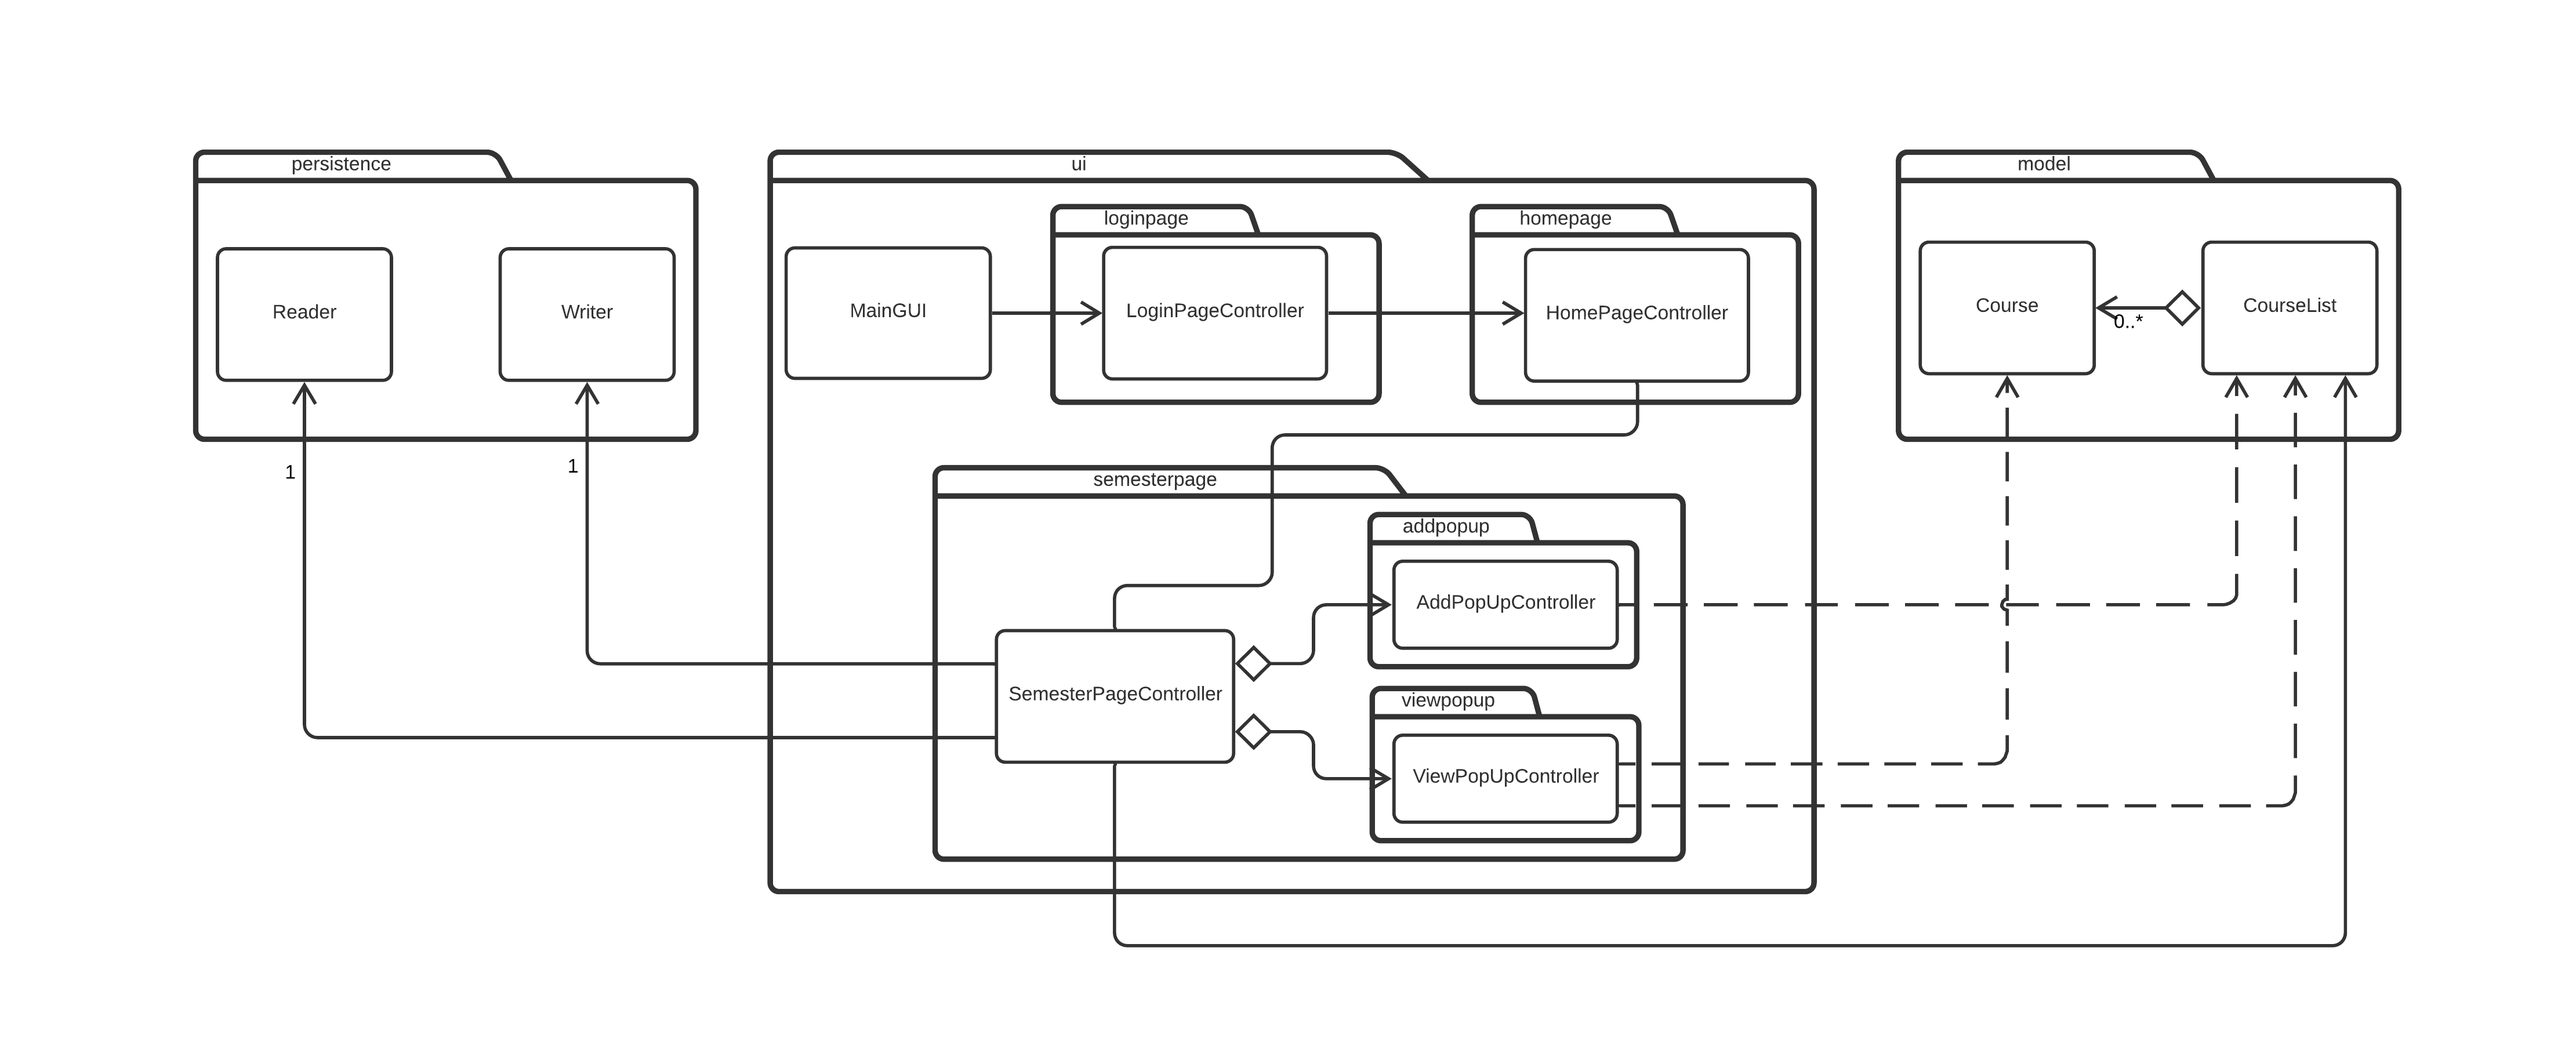
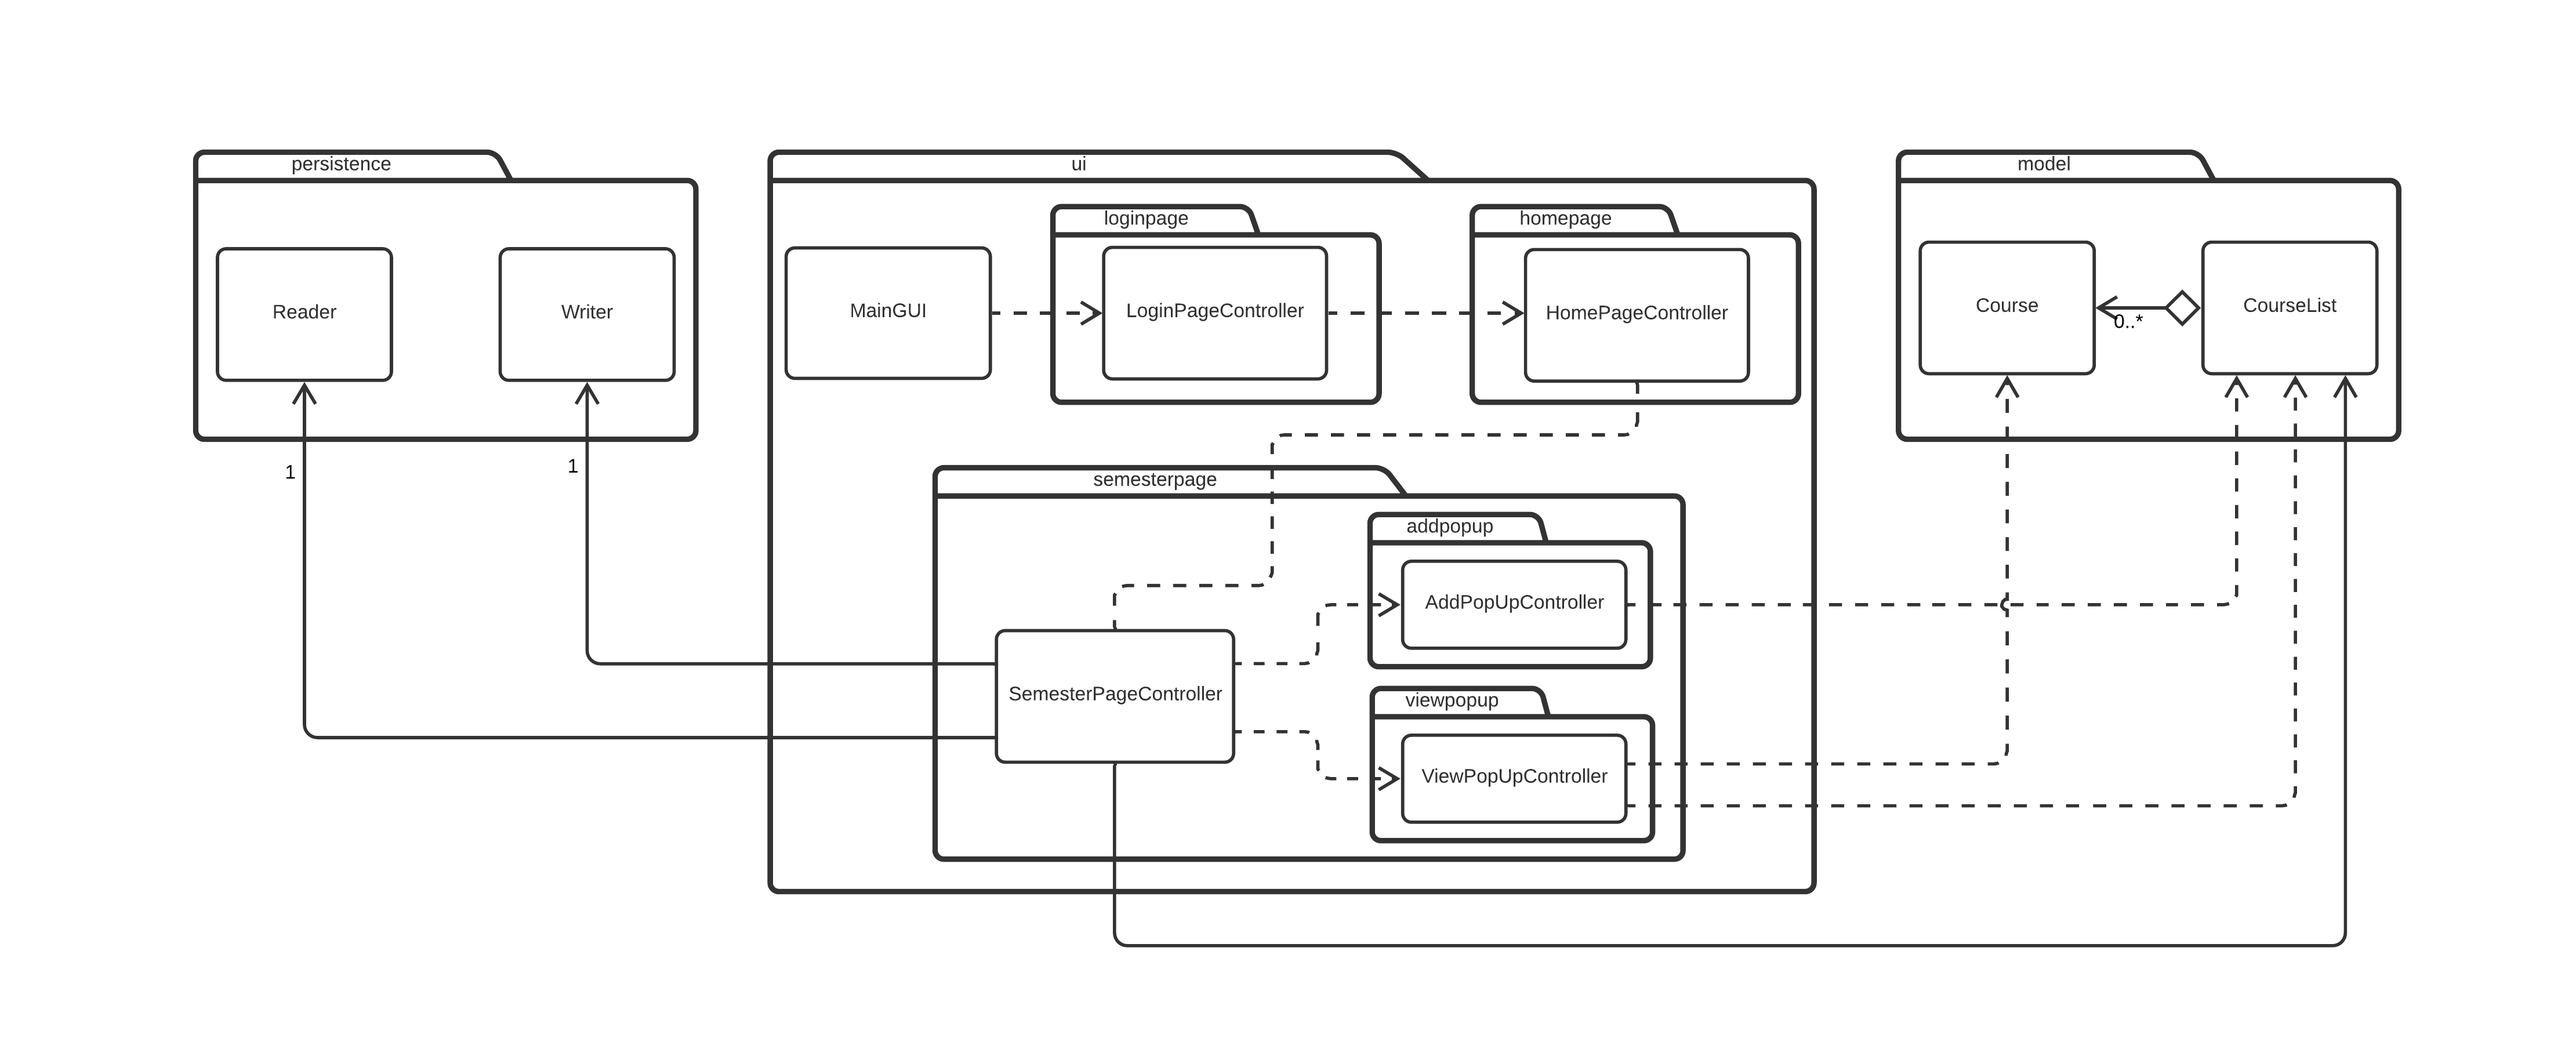
Phase 4 final commit

diff --git a/src/main/model/CourseList.java b/src/main/model/CourseList.java
@@ -14,9 +14,7 @@ public class CourseList {
         courseList = new ArrayList<>();
     }
 
-    /* REQUIRES: cc, cl and ct has a non-zero length
-     *           cn and cc are > 0
-     * MODIFIES: this
+    /* MODIFIES: this
      * EFFECTS: adds a new course to course list
      */
     public void addCourse(String cc, int cn, int cred, String cl, String ct) throws NumberFormatException,
@@ -36,8 +34,7 @@ public class CourseList {
 
     // EFFECTS: returns index of the course to remove if found else returns -1
     public int removeCourse(String cc, int cn) {
-        int i;
-        for (i = 0; i < courseList.size(); i++) {
+        for (int i = 0; i < courseList.size(); i++) {
             if ((cc.equals(courseList.get(i).getCourseCode())) && (cn == courseList.get(i).getCourseNumber())) {
                 return i;
             }
@@ -47,8 +44,7 @@ public class CourseList {
 
     // EFFECTS: returns index of the course to view if found else returns -1
     public int viewCourse(String cc, int cn) {
-        int i;
-        for (i = 0; i < courseList.size(); i++) {
+        for (int i = 0; i < courseList.size(); i++) {
             if ((cc.equals(courseList.get(i).getCourseCode())) && (cn == courseList.get(i).getCourseNumber())) {
                 return i;
             }

diff --git a/src/main/model/Course.java b/src/main/model/Course.java
@@ -12,9 +12,7 @@ public class Course {
     private String courseLocation;
     private String courseTiming;
 
-    /* REQUIRES: courseCode, courseLocation and courseTiming has a non-zero length
-    *            courseNumber and courseCredits are > 0
-    * MODIFIES: this
+    /* MODIFIES: this
     * EFFECTS: instantiates courseCode, courseLocation, courseTiming, courseNumber and courseCredits
     */
     public Course(String courseCode, int courseNumber, int courseCredits, String courseLocation, String courseTiming)

diff --git a/src/main/model/exceptions/CourseCreditExceedMaximumException.java b/src/main/model/exceptions/CourseCreditExceedMaximumException.java
@@ -1,5 +1,6 @@
 package model.exceptions;
 
+// Checked exception for course credit input
 public class CourseCreditExceedMaximumException extends Exception {
 
 }

diff --git a/src/main/model/exceptions/CourseNumberExceedMaximumException.java b/src/main/model/exceptions/CourseNumberExceedMaximumException.java
@@ -1,5 +1,6 @@
 package model.exceptions;
 
+// Checked exception for course number input
 public class CourseNumberExceedMaximumException extends Exception {
 
 }

diff --git a/src/main/model/exceptions/CourseCodeExceedMaximumException.java b/src/main/model/exceptions/CourseCodeExceedMaximumException.java
@@ -1,5 +1,6 @@
 package model.exceptions;
 
+// Checked exception for course code input
 public class CourseCodeExceedMaximumException extends Exception {
 
 }

diff --git a/README.md b/README.md
@@ -98,9 +98,9 @@ Phase 4: Task 2
  (_**/model/Course.java**_).
 - It checks for 4 additional things now:
     - Invalid input type. (Unchecked)
-    - Any input error in course code. (Checked)
-    - Any input error in course number. (Checked)
-    - Any input error in course credit. (Checked)
+    - Any discrepancies in course code input. (Checked)
+    - Any discrepancies in course number input. (Checked)
+    - Any discrepancies in course credit input. (Checked)
 - The three exceptions are in the exceptions package (_**/model/exceptions/**_).
 - The Course constructor throws all the exceptions when called by the CourseList
   method addCourse(...) and the method addCourse(...) further throws all the
@@ -112,8 +112,14 @@ Phase 4: Task 2
     
 Phase 4: Task 3
 ----------------------------------------------------- 
-- I could not find any places with too much coupling or poor cohesion, I have
-  posted on Piazza for help.
+- My UML Diagram is in the root folder named _'**CPSC210 Project.png**'_.
+- I could not find any places in my code with too much coupling or poor
+  cohesion, I believe the way I have coded it keeps every entity separate and
+  performs its own task. Like in my GUI I have made completely separate
+  controllers for different pages, even for the pop ups, thus adhering to strong
+  cohesion. And with regard to coupling, I have minimum associations and more 
+  dependencies as the list to be modified is updated in such a way that is passed
+  through the controllers and back to maintain a single point of control.
     
 Extra Information
 -----------------------------------------------------
